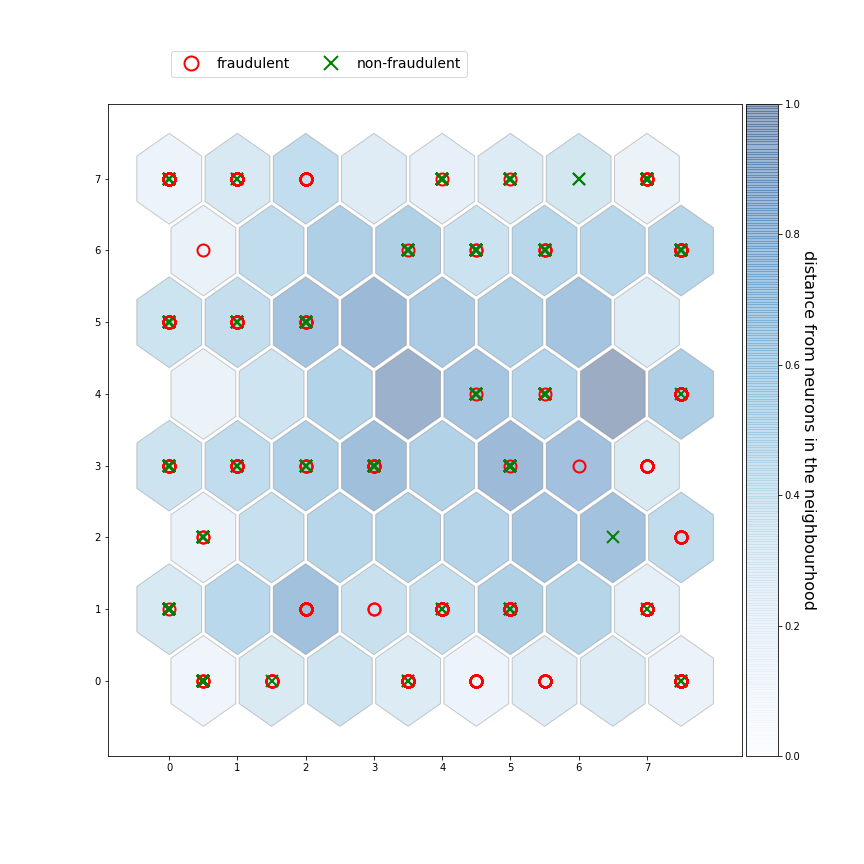
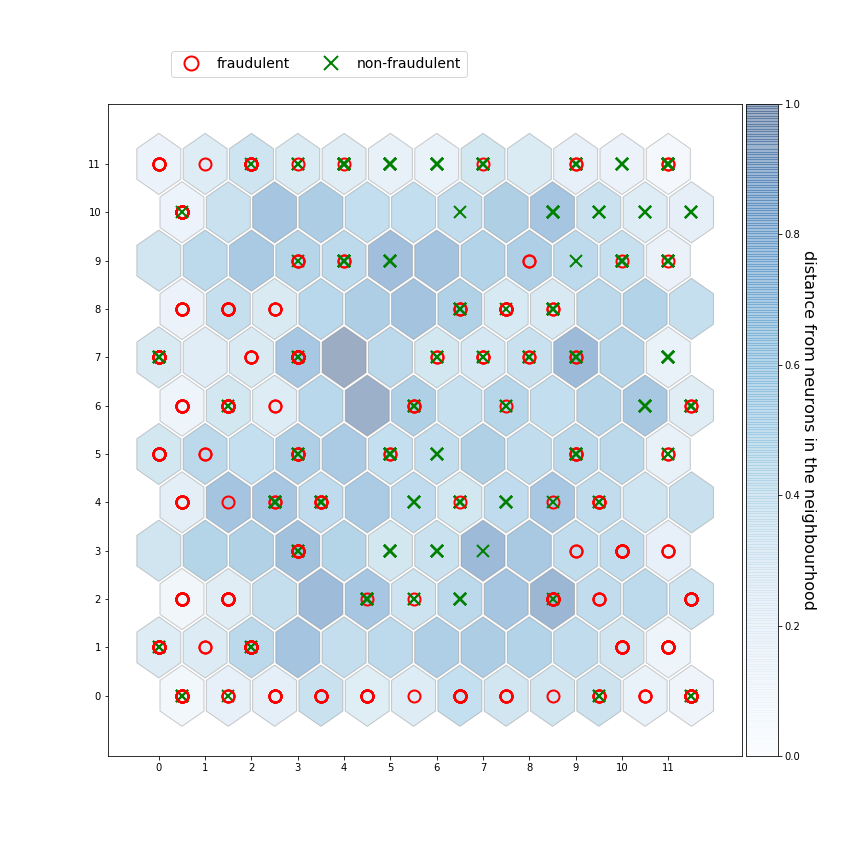
Edit gaussian function

Changed region(s): [[0.1562, 0.1562, 0.8438, 0.8438]]

diff --git a/som.py b/som.py
@@ -38,16 +38,8 @@ def asymptotic_decay(learning_rate, t, max_iter):
 
 
 class SelfMap(object):
-    def __init__(self, x, y, input_len, sigma=1.0, learning_rate=0.5,
-                 decay_function=asymptotic_decay,
-                 neighborhood_function='gaussian', topology='rectangular',
-                 activation_distance='euclidean', random_seed=None):
+    def __init__(self, x, y, input_len, sigma=1.0, learning_rate=0.5):
         """Initializes a Self Organizing Maps.
-        A rule of thumb to set the size of the grid for a dimensionality
-        reduction task is that it should contain 5*sqrt(N) neurons
-        where N is the number of samples in the dataset to analyze.
-        E.g. if your dataset has 150 samples, 5*sqrt(150) = 61.23
-        hence a map 8-by-8 should perform well.
         Parameters
         ----------
         x : int
@@ -65,29 +57,8 @@ class SelfMap(object):
             (at the iteration t we have
             learning_rate(t) = learning_rate / (1 + t/T)
             where T is #num_iteration/2)
-        decay_function : function (default=None)
-            Function that reduces learning_rate and sigma at each iteration
-            the default function is:
-                        learning_rate / (1+t/(max_iterarations/2))
-            A custom decay function will need to to take in input
-            three parameters in the following order:
-            1. learning rate
-            2. current iteration
-            3. maximum number of iterations allowed
-            Note that if a lambda function is used to define the decay
-            MiniSom will not be pickable anymore.
-        neighborhood_function : string, optional (default='gaussian')
-            Function that weights the neighborhood of a position in the map.
-            Possible values: 'gaussian'
-        topology : string, optional (default='rectangular')
-            Topology of the map.
-            Possible values: 'rectangular', 'hexagonal'
-        activation_distance : string, optional (default='euclidean')
-            Distance used to activate the map.
-            Possible values: 'euclidean'
-        random_seed : int, optional (default=None)
-            Random seed to use.
         """
+        random_seed=None
         self._random_generator = random.RandomState(random_seed)
         self._learning_rate = learning_rate
         self._sigma = sigma
@@ -98,16 +69,14 @@ class SelfMap(object):
         self._activation_map = zeros((x, y))
         self._neigx = arange(x)
         self._neigy = arange(y)  # used to evaluate the neighborhood function
-        self.topology = topology
+        self.topology = 'hexagonal'
         self._xx, self._yy = meshgrid(self._neigx, self._neigy)
         self._xx = self._xx.astype(float)
         self._yy = self._yy.astype(float)
         self._xx[::-2] -= 0.5    
-        self._decay_function = decay_function
-        neig_functions = {'gaussian': self._gaussian}
-        self.neighborhood = neig_functions[neighborhood_function]
-        distance_functions = {'euclidean': self._euclidean_distance}
-        self._activation_distance = distance_functions[activation_distance]
+        self._decay_function = asymptotic_decay
+        self.neighborhood = self._gaussian
+        self._activation_distance = self._euclidean_distance
 
     def get_weights(self):
         """Returns the weights of the neural network."""
@@ -118,14 +87,12 @@ class SelfMap(object):
         plane that reflects the chosen topology in two meshgrids xx and yy.
         Neuron with map coordinates (1, 4) has coordinate (xx[1, 4], yy[1, 4])
         in the euclidean plane.
-        Only useful if the topology chosen is not rectangular.
         """
         return self._xx.T, self._yy.T
 
     def convert_map_to_euclidean(self, xy):
         """Converts map coordinates into euclidean coordinates
-        that reflects the chosen topology.
-        Only useful if the topology chosen is not rectangular.
+        that reflects the hexagonal topology
         """
         return self._xx.T[xy], self._yy.T[xy]
 
@@ -173,7 +140,7 @@ class SelfMap(object):
         sig = self._decay_function(self._sigma, t, max_iteration)
         # improves the performances
         g = self.neighborhood(win, sig)*eta
-        # w_new = eta * neighborhood_function * (x-w)
+        # w_new = eta * 'gaussian' * (x-w)
         self._weights += einsum('ij, ijk->ijk', g, x-self._weights)
 
     def random_weights_init(self, data):
@@ -208,8 +175,8 @@ class SelfMap(object):
                     self._weights.shape[1],
                     8))  # 2 spots more for hexagonal topology
 
-        ii = [[0, -1, -1, -1, 0, 1, 1, 1]]*2
-        jj = [[-1, -1, 0, 1, 1, 1, 0, -1]]*2
+        #ii = [[0, -1, -1, -1, 0, 1, 1, 1]]*2
+        #jj = [[-1, -1, 0, 1, 1, 1, 0, -1]]*2
 
         if self.topology == 'hexagonal':
             ii = [[1, 1, 1, 0, -1, 0], [0, 1, 0, -1, -1, -1]]
@@ -218,7 +185,7 @@ class SelfMap(object):
         for x in range(self._weights.shape[0]):
             for y in range(self._weights.shape[1]):
                 w_2 = self._weights[x, y]
-                e = y % 2 == 0   # only used on hexagonal topology
+                e = y % 2 == 0   
                 for k, (i, j) in enumerate(zip(ii[e], jj[e])):
                     if (x+i >= 0 and x+i < self._weights.shape[0] and
                             y+j >= 0 and y+j < self._weights.shape[1]):

diff --git a/main.py b/main.py
@@ -12,8 +12,7 @@ sc = MinMaxScaler(feature_range = (0, 1))
 X = sc.fit_transform(X)
 
 # Initialization and training
-som = SelfMap(x = 12,y = 12, input_len = 15, sigma=1.0, learning_rate= 0.5, activation_distance='euclidean',
-              topology='hexagonal', neighborhood_function='gaussian')
+som = SelfMap(x = 12,y = 12, input_len = 15, sigma=1.0, learning_rate= 0.5)
 som.random_weights_init(X)
 som.train(data = X, num_iteration = 1000)
 
